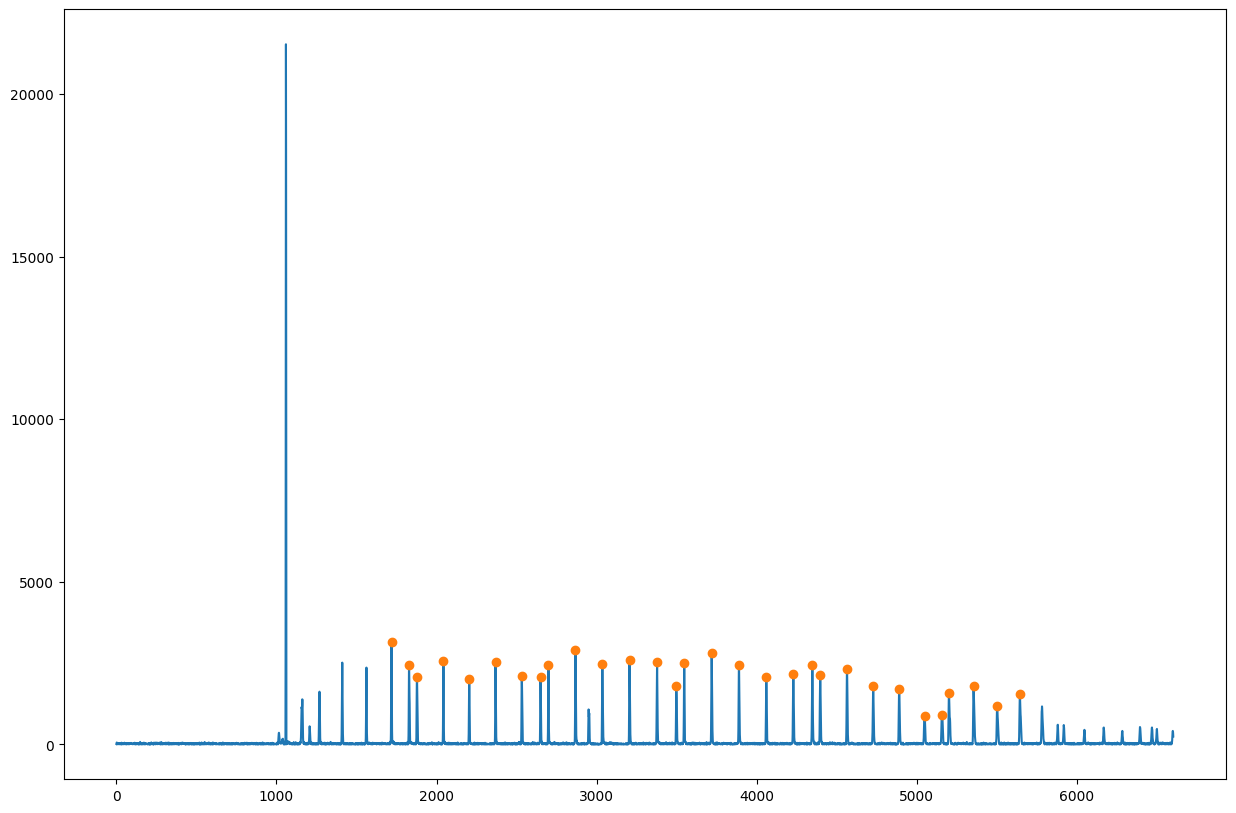
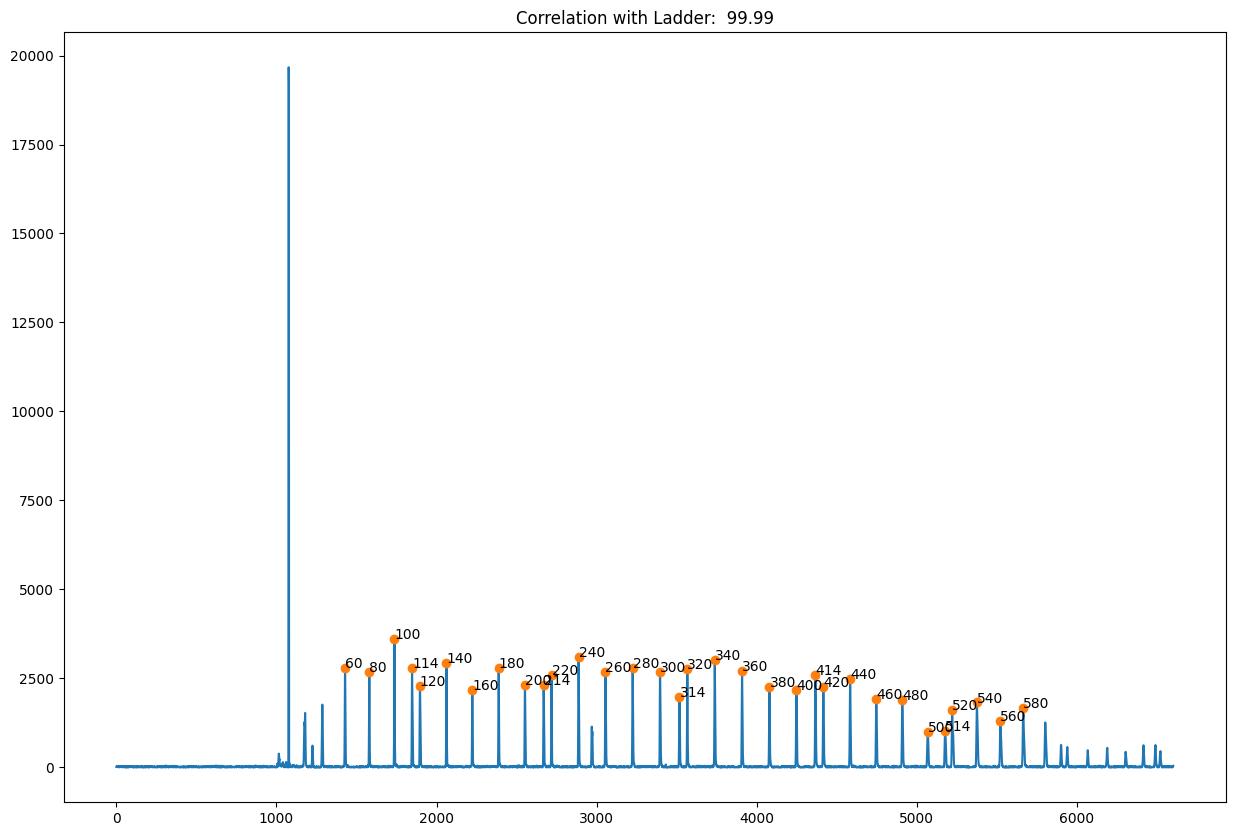
plotting improvements and changed the ladder peak finding algorithm (commented out some code)

diff --git a/fragment_analyzer/ladder_map.py b/fragment_analyzer/ladder_map.py
@@ -12,6 +12,8 @@ import lmfit
 from collections import namedtuple
 from typing import NamedTuple
 
+from .ladders.ladders import LIZ
+
 
 class LadderMap:
     def __init__(
@@ -23,46 +25,13 @@ class LadderMap:
         max_diff_coefficient: float = 1.5,
     ) -> None:
         self.data = SeqIO.read(data, "abi").annotations["abif_raw"]
-        self.ladder = np.array(
-            [
-                100,
-                114,
-                120,
-                140,
-                160,
-                180,
-                200,
-                214,
-                220,
-                240,
-                260,
-                280,
-                300,
-                314,
-                320,
-                340,
-                360,
-                380,
-                400,
-                414,
-                420,
-                440,
-                460,
-                480,
-                500,
-                514,
-                520,
-                540,
-                560,
-                580,
-            ]
-        )
+        self.ladder = LIZ
         self.sample_ladder = np.array(self.data["DATA205"])
         self.max_peak_count = max_peak_count
         self.distance = distance
         self.height = height
         self.peaks = self.get_peaks()
-        self.max_diff = np.diff(self.peaks).max() * max_diff_coefficient
+        self.max_diff = np.min([np.diff(self.peaks).max() * max_diff_coefficient, 300]) # max_diff can maximum be 300
         self.graph = self.generate_graph()
         self.best_ladder_peak_correlation()
         self._fit_linear_model()
@@ -112,11 +81,12 @@ class LadderMap:
             node for node in self.graph.nodes if self.graph.out_degree(node) == 0
         ]
 
-        if len(start_nodes) > 1:
-            raise Exception("Can't generate. Too many start nodes.")
-
-        if len(end_nodes) > 1:
-            raise Exception("Can't generate, Too many end nodes.")
+        # comment out the below code to make the algorithm work for every file... TODO later
+        #if len(start_nodes) > 1:
+        #    raise Exception("Can't generate. Too many start nodes.")
+        #
+        #if len(end_nodes) > 1:
+        #    raise Exception("Can't generate, Too many end nodes.")
 
         # debug
         # seems like this steps takes a long time for some samples...
@@ -165,6 +135,10 @@ class LadderMap:
         fig = plt.figure(figsize=(15, 10))
         plt.plot(self.sample_ladder)
         plt.plot(self.best_correlated_peaks, self.sample_ladder[self.best_correlated_peaks], "o")
+        plt.title(f"Correlation with Ladder: {self.best_correlation * 100: .2f}")
+        
+        for peak, ladder in zip(self.best_correlated_peaks, self.ladder):
+            plt.text(peak, self.sample_ladder[peak], ladder)
         return fig
 
 
@@ -219,7 +193,8 @@ class PeakArea:
         self.left_peak_height, self.right_peak_height = widths[1]
 
     def plot_peak_widths(self):
-        self.peaks_dataframe.plot("step_adjusted", "peaks")
+        fig = plt.figure()
+        plt.plot(self.peaks_dataframe.step_adjusted, self.peaks_dataframe.peaks)
         plt.plot(
             self.peaks_dataframe.step_adjusted.iloc[self.peaks_index],
             self.peaks_dataframe.peaks.iloc[self.peaks_index],
@@ -239,6 +214,7 @@ class PeakArea:
             xmax=self.peaks_dataframe.step_adjusted.iloc[self.right_peak_end],
             color="C4",
         )
+        return fig
 
     def divide_peaks(self):
         # add some padding (10) to the left and right to be sure to include everything in the peak

diff --git a/fragment_analyzer/ladders/ladders.py b/fragment_analyzer/ladders/ladders.py
@@ -1,0 +1,38 @@
+import numpy as np
+
+LIZ = np.array(
+    [
+        60,
+        80,
+        100,
+        114,
+        120,
+        140,
+        160,
+        180,
+        200,
+        214,
+        220,
+        240,
+        260,
+        280,
+        300,
+        314,
+        320,
+        340,
+        360,
+        380,
+        400,
+        414,
+        420,
+        440,
+        460,
+        480,
+        500,
+        514,
+        520,
+        540,
+        560,
+        580,
+    ]
+)
